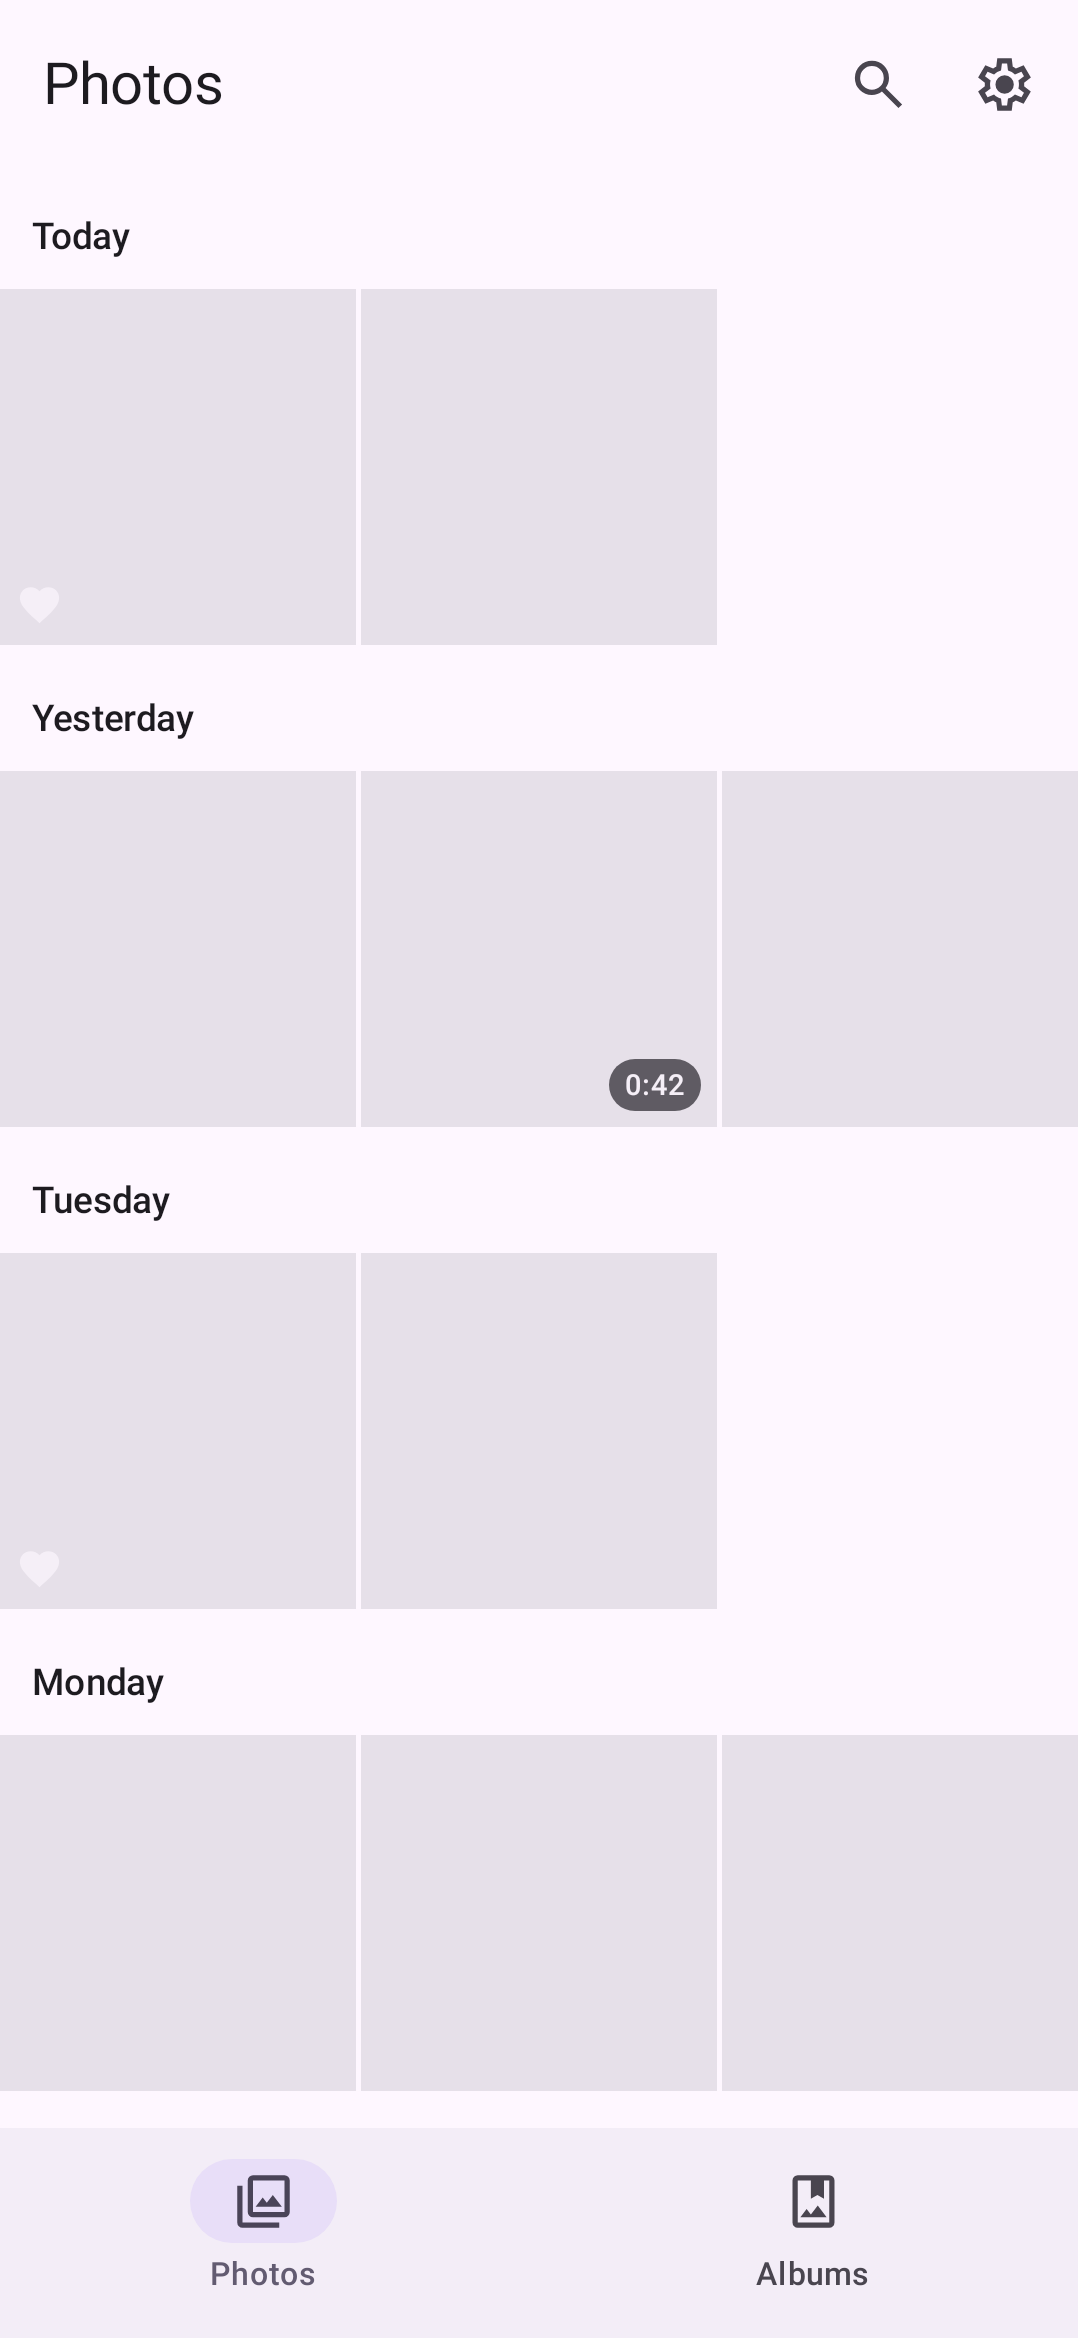
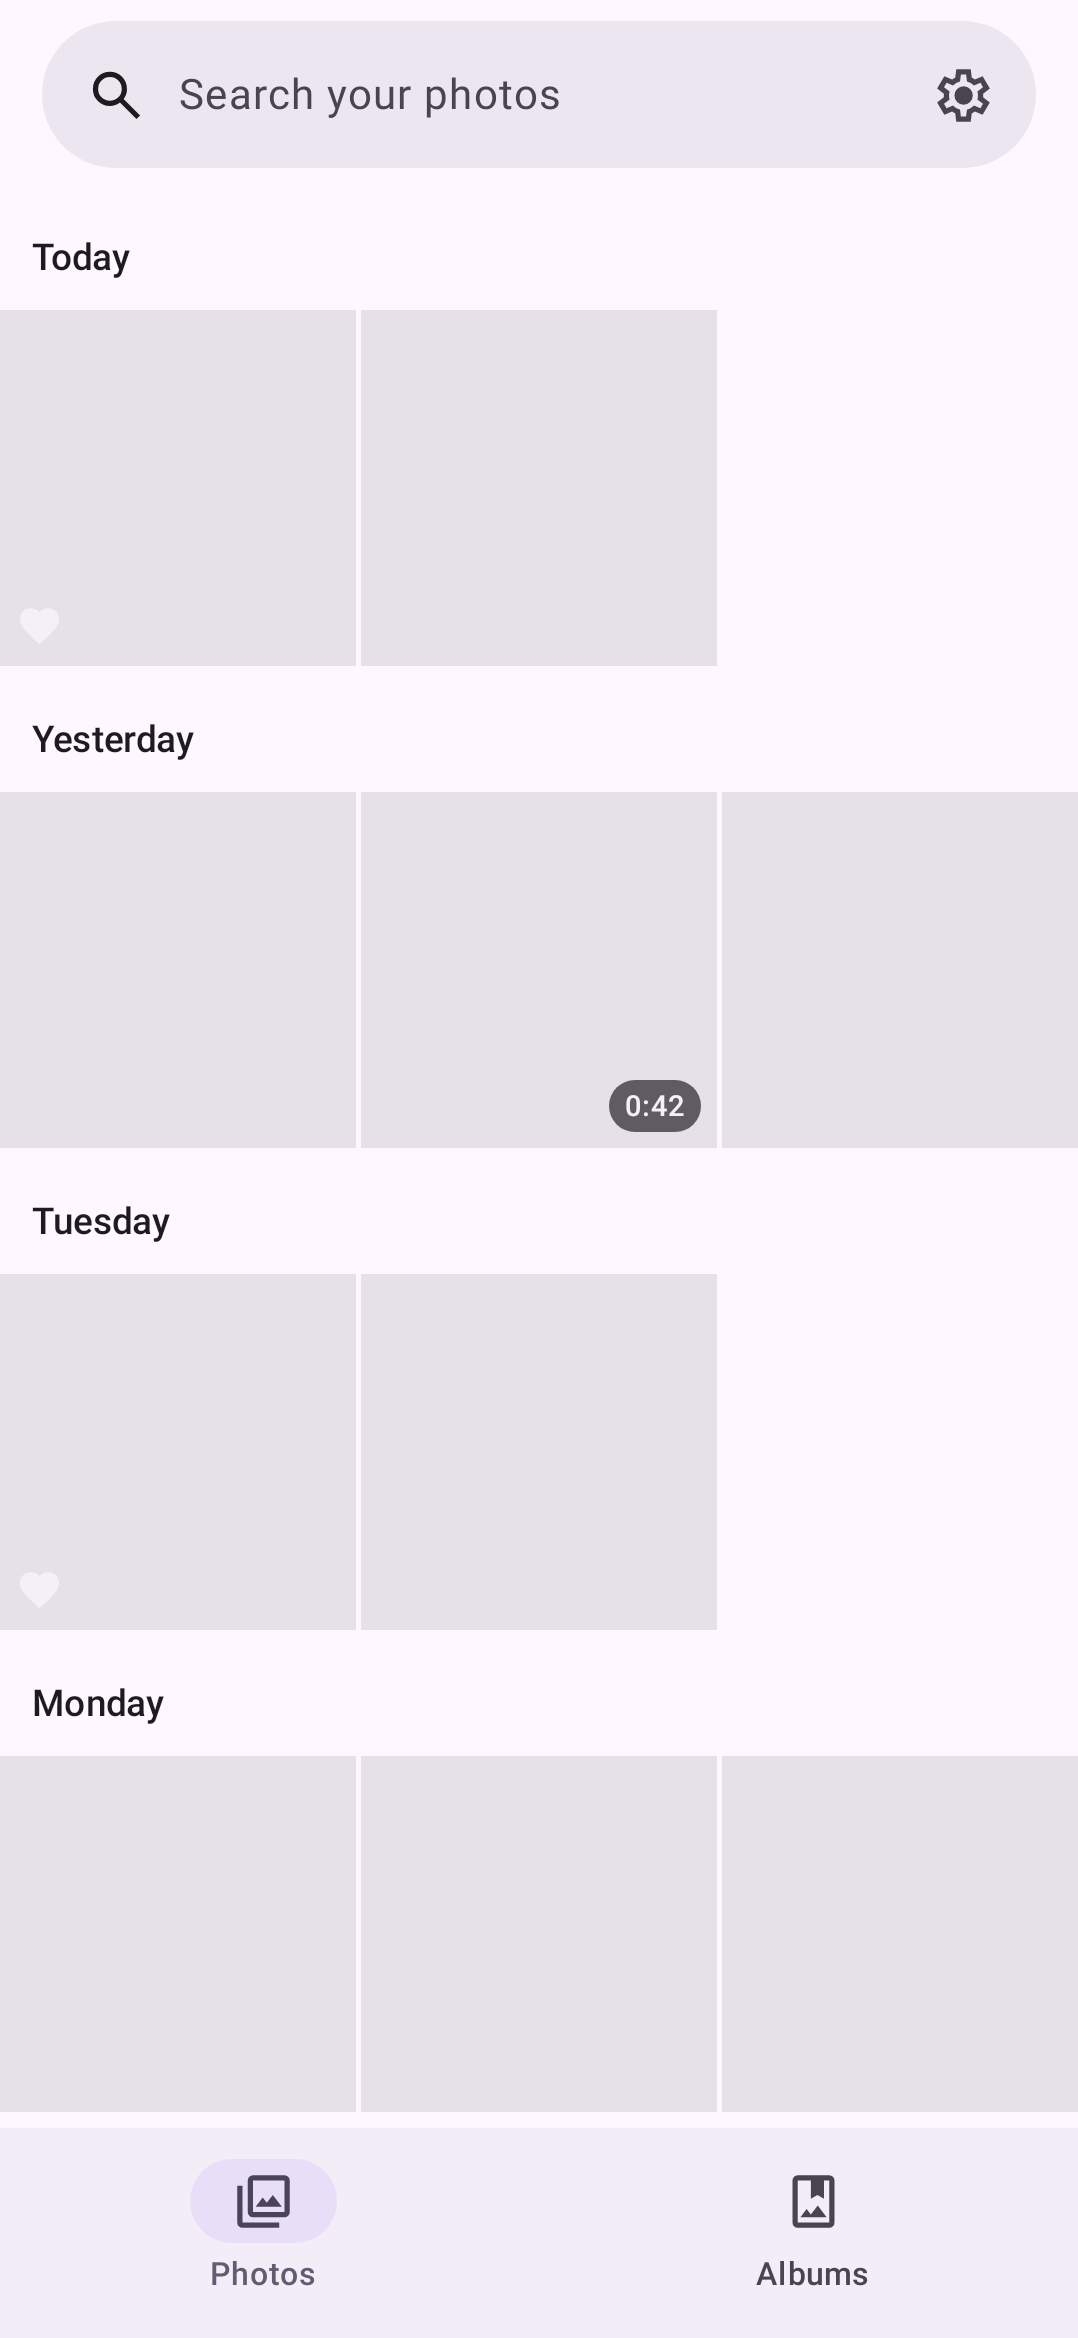
Gallery 0.6.4: Photos' top bar is the search bar; hints stay on one line (#158)
The Photos tab shows "Search your photos" with settings inside instead of a
title (Photos is already the tab's name); typing shows matches in place.
TesseraSearchBar keeps its hint to one line (ellipsis) in every app.

diff --git a/apps/gallery/src/main/kotlin/io/github/michaelmassoni/tessera/gallery/ui/GalleryApp.kt b/apps/gallery/src/main/kotlin/io/github/michaelmassoni/tessera/gallery/ui/GalleryApp.kt
@@ -62,6 +62,7 @@ import coil3.compose.AsyncImage
 import io.github.michaelmassoni.tessera.core.design.TesseraSearchBar
 import io.github.michaelmassoni.tessera.core.design.TesseraSearchTopBar
 import io.github.michaelmassoni.tessera.core.design.TesseraTheme
+import io.github.michaelmassoni.tessera.core.design.keyboardVisible
 import io.github.michaelmassoni.tessera.gallery.Collection
 import io.github.michaelmassoni.tessera.gallery.GalleryState
 import io.github.michaelmassoni.tessera.gallery.R
@@ -137,6 +138,8 @@ fun GalleryApp(
     var viewing by rememberSaveable(stateSaver = ViewingSaver) { mutableStateOf<Pair<Collection, Long>?>(null) }
     // The photo open in the editor, by id.
     var editing by rememberSaveable { mutableStateOf<Long?>(null) }
+    // What's typed in the Photos tab's search bar.
+    var photosQuery by rememberSaveable { mutableStateOf("") }
     // Each tab and the open album keep their scroll position while another is shown; a closed album forgets its own.
     val saveable = rememberSaveableStateHolder()
 
@@ -147,6 +150,12 @@ fun GalleryApp(
 
     BackHandler(viewing == null && state.selection.isNotEmpty()) { gridActions.clearSelection() }
     BackHandler(viewing == null && state.selection.isEmpty() && album != null) { closeAlbum() }
+    // Back clears the Photos search (not while the keyboard is up: Back closes it first).
+    BackHandler(
+        viewing == null && state.selection.isEmpty() && album == null && tab == 0 && photosQuery.isNotEmpty() && !keyboardVisible(),
+    ) {
+        photosQuery = ""
+    }
 
     val open: (Collection, MediaItem) -> Unit = { c, item ->
         if (pickMode) {
@@ -190,16 +199,18 @@ fun GalleryApp(
                     }
 
                     tab == 0 -> {
+                        // The search bar is the top bar: typing shows matches here, clearing it the timeline.
+                        val shown = if (photosQuery.isBlank()) Collection.All else Collection.Search(photosQuery)
                         CollectionScreen(
                             state,
-                            Collection.All,
-                            state.items,
+                            shown,
+                            if (shown == Collection.All) state.items else itemsOf(shown),
                             gridActions,
                             null,
-                            { open(Collection.All, it) },
+                            { open(shown, it) },
                             now,
                             pickMode,
-                            onOpenSearch = if (pickMode) null else ({ album = Collection.Search("") }),
+                            onQuery = if (pickMode) null else ({ photosQuery = it }),
                         )
                     }
 
@@ -252,8 +263,7 @@ private fun CollectionScreen(
     onOpen: (MediaItem) -> Unit,
     now: () -> Long,
     pickMode: Boolean,
-    // The Photos tab: opens search. A search screen: the query changed.
-    onOpenSearch: (() -> Unit)? = null,
+    // The Photos tab (and an old search screen): the search bar is the top bar; the query changed.
     onQuery: ((String) -> Unit)? = null,
 ) {
     val locale = LocalConfiguration.current.locales[0]
@@ -281,8 +291,18 @@ private fun CollectionScreen(
         topBar = {
             if (state.selection.isNotEmpty() && !pickMode) {
                 SelectionBar(state.selection.size, collection == Collection.Trash, state.albums, actions)
-            } else if (collection is Collection.Search && onQuery != null) {
-                SearchTopBar(collection.query, onQuery, onBack ?: {})
+            } else if (onQuery != null) {
+                TesseraSearchTopBar(
+                    query = (collection as? Collection.Search)?.query.orEmpty(),
+                    onQuery = onQuery,
+                    placeholder = stringResource(R.string.search_hint),
+                    onBack = onBack,
+                    action = {
+                        IconButton(onClick = actions::openSettings) {
+                            Icon(painterResource(DesignR.drawable.ic_settings), contentDescription = stringResource(R.string.settings))
+                        }
+                    },
+                )
             } else {
                 TopAppBar(
                     title = { Text(if (pickMode) stringResource(R.string.pick_title) else title) },
@@ -298,11 +318,6 @@ private fun CollectionScreen(
                     },
                     actions = {
                         if (onBack == null && !pickMode) {
-                            onOpenSearch?.let {
-                                IconButton(onClick = it) {
-                                    Icon(painterResource(DesignR.drawable.ic_search), contentDescription = stringResource(R.string.search))
-                                }
-                            }
                             IconButton(onClick = actions::openSettings) {
                                 Icon(painterResource(DesignR.drawable.ic_settings), contentDescription = stringResource(R.string.settings))
                             }
@@ -636,19 +651,3 @@ private val ViewingSaver: Saver<Pair<Collection, Long>?, Any> =
             if (list.isEmpty()) null else decodeCollection(list.drop(1)) to (list[0] as Long)
         },
     )
-
-/** Search's top bar: back, and the search field (focused when it opens). */
-@Composable
-private fun SearchTopBar(
-    query: String,
-    onQuery: (String) -> Unit,
-    onBack: () -> Unit,
-) {
-    TesseraSearchTopBar(
-        query = query,
-        onQuery = onQuery,
-        placeholder = stringResource(R.string.search_hint),
-        onBack = onBack,
-        focusOnOpen = true,
-    )
-}

diff --git a/core/design/src/main/kotlin/io/github/michaelmassoni/tessera/core/design/TesseraSearchBar.kt b/core/design/src/main/kotlin/io/github/michaelmassoni/tessera/core/design/TesseraSearchBar.kt
@@ -32,6 +32,7 @@ import androidx.compose.ui.focus.FocusRequester
 import androidx.compose.ui.focus.focusRequester
 import androidx.compose.ui.res.painterResource
 import androidx.compose.ui.res.stringResource
+import androidx.compose.ui.text.style.TextOverflow
 import androidx.compose.ui.unit.dp
 
 /**
@@ -67,7 +68,8 @@ fun TesseraSearchBar(
             searchBarState = searchState,
             modifier = if (focusRequester != null) Modifier.focusRequester(focusRequester) else Modifier,
             onSearch = onSearch,
-            placeholder = { Text(placeholder) },
+            // One line: a long hint ends in "…" rather than wrapping the bar to two lines.
+            placeholder = { Text(placeholder, maxLines = 1, overflow = TextOverflow.Ellipsis) },
             leadingIcon = leadingIcon,
             trailingIcon = trailingIcon,
             colors = colors.inputFieldColors,

diff --git a/docs/gallery.md b/docs/gallery.md
@@ -136,7 +136,8 @@ The viewer is always full-screen.
 
 ## Search (0.6)
 
-The search button on Photos opens a search field (keyboard up). Every word must match something
+The Photos tab's top bar is the search bar ("Search your photos", settings inside it); typing shows
+matches in place and clearing it (or Back) returns to the timeline. Every word must match something
 about a photo or video: its file name, its album, the month it was taken (name, or three or more
 letters of it), the year, the day of the month, or "photo" / "video". Case and accents are
 ignored; no on-device AI. Results are a flat grid, newest first; tapping one opens the viewer,
